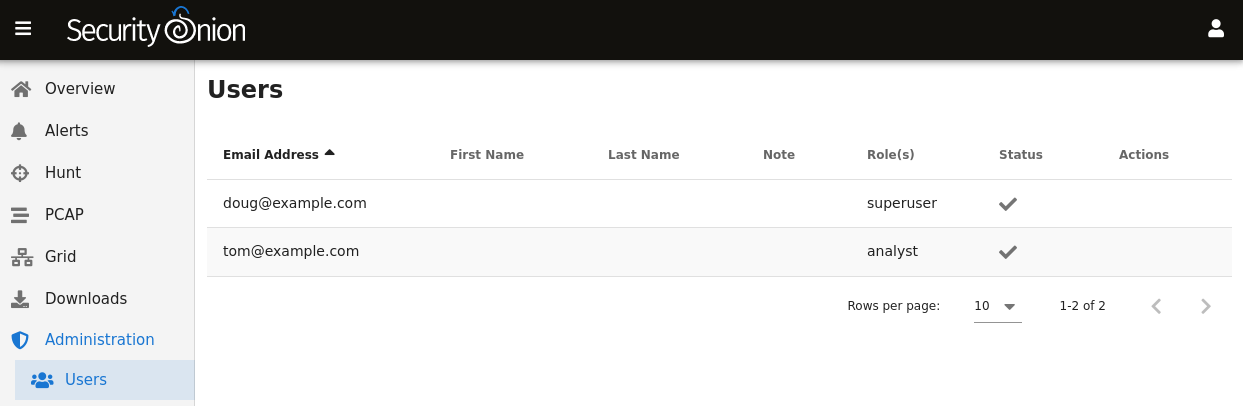
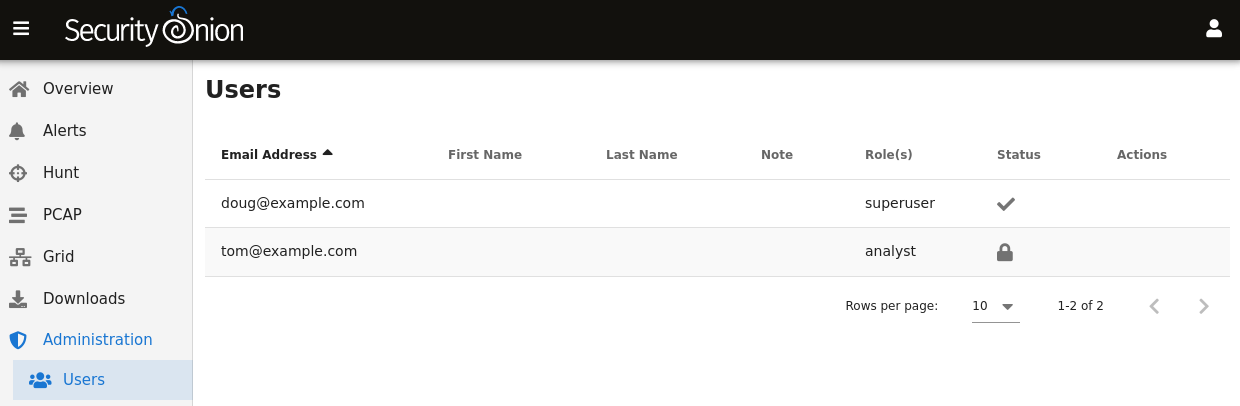
consolidate users screenshots

diff --git a/disabling-accounts.rst b/disabling-accounts.rst
@@ -25,8 +25,8 @@ If you need to disable an account in :ref:`soc`, :ref:`hive`, and :ref:`fleet`, 
 
 After disabling a user account, the :ref:`soc` :ref:`administration` page will show the disabled user account with a lock icon in the Status column:
 
-.. image:: images/users-disabled.png
-  :target: _images/users-disabled.png
+.. image:: images/users.png
+  :target: _images/users.png
 
 TheHive - UI
 ------------
